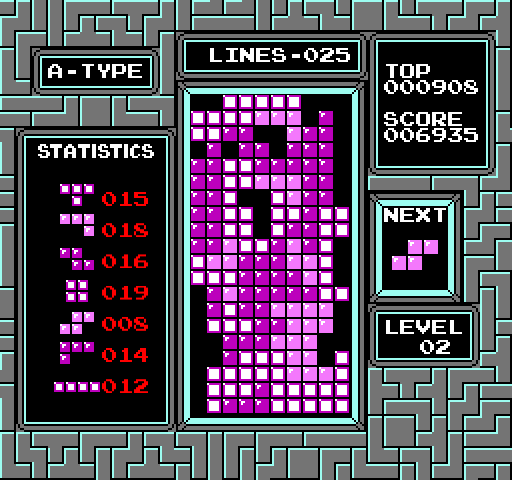
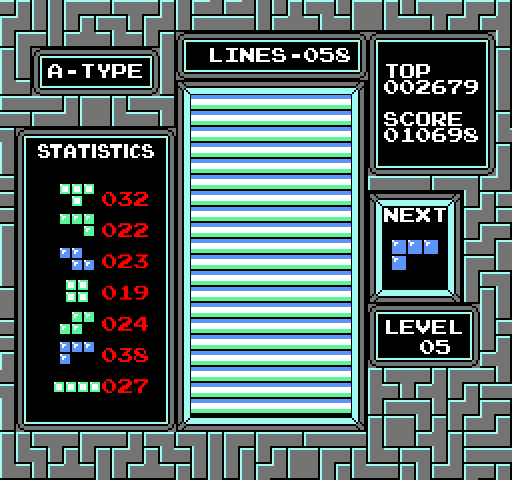
[C++][Tetris] Add endgame shutters

diff --git a/C++/Tetris/main.cpp b/C++/Tetris/main.cpp
@@ -23,17 +23,17 @@ constexpr uint stats_y = 160;
 unsigned long long frame = 1;
 const unsigned int framerate = 60;
 
-uint level = 0;
-uint lines = 0;
+uint level;
+uint lines;
 
-uint score = 0;
-uint high_score = 0;
+uint score;
+uint high_score;
 
-int horizontalRepeat = 0;
-bool horizontalLast = false;
+int horizontalRepeat;
+bool horizontalLast;
 
-bool resetDrop = false;
-int dropPoints = 0;
+bool resetDrop;
+int dropPoints;
 
 uint stats_count[7];
 const uint mini_block_offset[7] = {0, 30, 64, 96, 128, 158, 198};
@@ -109,9 +109,8 @@ sf::Text stats_text[7];
 
 sf::Event e;
 
-void setup()
+void reset()
 {
-  srand(time(NULL));
   for (int i = 0; i < cols; i++)
   {
     for (int k = 0; k < rows; k++)
@@ -124,6 +123,29 @@ void setup()
   current.type = (rand() % 7) + 1;
 
   next.type = (rand() % 7) + 1;
+
+  level = 0;
+  lines = 0;
+
+  score = 0;
+
+  horizontalRepeat = 0;
+  horizontalLast = false;
+
+  resetDrop = false;
+  dropPoints = 0;
+
+  for (int i = 0; i < 7; i++)
+  {
+    stats_count[i] = 0;
+  }
+}
+
+void setup()
+{
+  srand(time(NULL));
+
+  reset();
 
   std::ifstream high_score_file("data/highscore.cfg", std::ios::in);
 
@@ -156,7 +178,6 @@ void setup()
 
   for (int i = 0; i < 7; i++)
   {
-    stats_count[i] = 0;
     stats_text[i].setFont(font);
     stats_text[i].setCharacterSize(16);
     stats_text[i].setPosition(stats_x + 4.5 * mini_block_size, stats_y + (2.6 * i + 2.5) * mini_block_size);
@@ -165,6 +186,19 @@ void setup()
 
   window.setFramerateLimit(framerate);
   window.setKeyRepeatEnabled(false);
+}
+
+void advance_frame()
+{
+  window.display();
+}
+
+void advance_frames(int n)
+{
+  for (int i = 0; i < n; i++)
+  {
+    advance_frame();
+  }
 }
 
 void update_high_score()
@@ -297,6 +331,22 @@ void draw_stats_pieces()
   }
 }
 
+void draw_shutters()
+{
+  block_sprite.setTextureRect(sf::IntRect(3 * block_size, (level % 10) * block_size, block_size, block_size));
+  for (int i = 2; i < rows; i++)
+  {
+    for (int j = 0; j < cols; j++)
+    {
+      int x = field_x + j * block_size;
+      int y = field_y + i * block_size;
+      block_sprite.setPosition(x, y);
+      window.draw(block_sprite);
+    }
+    advance_frames(4);
+  }
+}
+
 bool conflict()
 {
   for (int i = 0; i < 4; i++)
@@ -326,15 +376,22 @@ bool conflict()
 
 int game_over()
 {
+  draw_shutters();
+
   if (score > high_score)
   {
     update_high_score();
   }
 
+  reset();
+
+  advance_frames(60);
+}
+
+void teardown()
+{
   window.capture().saveToFile("output/output.png");
   window.close();
-
-  return 0;
 }
 
 void update_score(int cleared)
@@ -386,10 +443,7 @@ void check_clear_lines()
 
     draw_text();
 
-    for (int j = 0; j < 4; j++)
-    {
-      window.display();
-    }
+    advance_frames(4);
   }
 
   for (ushort row : to_clear)
@@ -559,7 +613,6 @@ int main()
 
     if (conflict())
     {
-      std::cout << "Game over!" << std::endl;
       game_over();
     }
 
@@ -609,13 +662,14 @@ int main()
       }
     }
 
-    window.display();
+    advance_frame();
 
     while (window.pollEvent(e))
     {
       if (e.type == sf::Event::Closed)
       {
-        game_over();
+        teardown();
+        return 0;
       }
 
       if (e.type == sf::Event::KeyPressed)
@@ -632,6 +686,9 @@ int main()
           resetDrop = false;
           dropPoints = 0;
           break;
+        case sf::Keyboard::Q:
+          teardown();
+          return 0;
         }
       }
 
